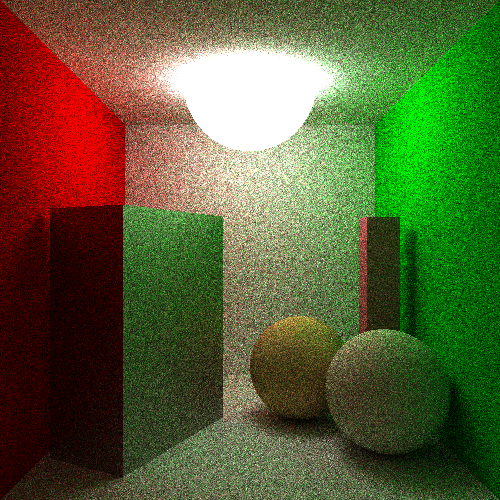
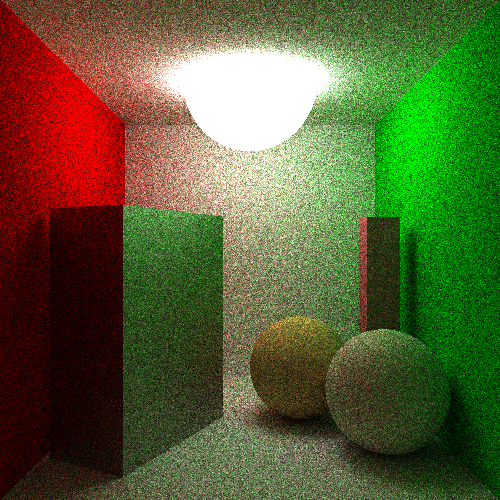
Still trying to debug why is so dark

diff --git a/src/Geometry.cpp b/src/Geometry.cpp
@@ -46,7 +46,7 @@ bool Sphere::CheckIntersection(const Ray& ray, const glm::vec3& center, ContactI
 	info.mContact = ray.mP0 + ray.mV * info.mTI;
 	info.mNormal = glm::normalize(info.mContact - center);
 
-	if (glm::dot(info.mNormal, ray.mV) > 0)
+	if (glm::dot(info.mNormal, ray.mV) >= 0)
 		info.mNormal = -info.mNormal;
 
 	return true;
@@ -118,7 +118,7 @@ bool Box::CheckIntersection(const Ray& ray, const glm::vec3& corner, ContactInfo
 		info.mNormal = planes[closestPlaneIndx].mNormal;
 	}
 
-	if (glm::dot(info.mNormal, ray.mV) > 0)
+	if (glm::dot(info.mNormal, ray.mV) >= 0)
 		info.mNormal = -info.mNormal;
 	
 	info.mContact = ray.mP0 + info.mTI * ray.mV;
@@ -132,12 +132,11 @@ bool Box::CheckIntersection(const Ray& ray, const glm::vec3& corner, ContactInfo
 bool Plane::CheckIntersection(const Ray& ray, const glm::vec3& point, glm::vec2& interval) const
 {
 	float raydot = glm::dot(ray.mV, mNormal);
-	float epsilon = std::numeric_limits<float>::epsilon();
-	if(raydot < epsilon && -epsilon < raydot)
-		return false;
+	//float epsilon = std::numeric_limits<float>::epsilon();
+	//if(raydot < epsilon && -epsilon < raydot)
+	//	return false;
 
-	//glm::vec3 cp = glm::normalize(ray.mP0 - point);
-	glm::vec3 cp = ray.mP0 - point;
+	glm::vec3 cp = glm::normalize(ray.mP0 - point);
 	float dot = glm::dot(cp, mNormal);
 	float time = -dot / raydot;
 
@@ -516,7 +515,7 @@ bool AABB::CheckIntersection(const Ray& ray, const glm::vec3& corner, ContactInf
 	info.mContact = ray.mP0 + info.mTI * ray.mV;
 
 
-	if (glm::dot(info.mNormal, ray.mV) > 0)
+	if (glm::dot(info.mNormal, ray.mV) >= 0)
 		info.mNormal = -info.mNormal;
 
 

diff --git a/src/Raytracer.cpp b/src/Raytracer.cpp
@@ -43,7 +43,7 @@ ContactInfo RayTracer::FindClosestObj(const Ray& ray, const Scene& scene)
         minInfo.mNormal = triangleWrapper.tri.mNormal;
         minInfo.mColor = triangleWrapper.owner && triangleWrapper.owner->mMaterial ? triangleWrapper.owner->mMaterial->mColor : Color::Black;
 
-		if (glm::dot(minInfo.mNormal, ray.mV) > 0)
+		if (glm::dot(minInfo.mNormal, ray.mV) >= 0)
 			minInfo.mNormal = -minInfo.mNormal;
 
         minInfo.mCollidedWith = triangleWrapper.owner ? triangleWrapper.owner : nullptr;
@@ -101,7 +101,7 @@ ContactInfo RayTracer::RayCast(const Ray& ray, const Scene& scene, int bounce){
 
         if (bounced.mV == glm::vec3(0.0F)) return result;
 		
-		if (glm::dot(bounced.mV, result.mNormal) < 0.0f)
+		if (glm::dot(bounced.mV, result.mNormal) <= 0.0f)
             result.mNormal = -result.mNormal;
 
 		//return result;
@@ -116,6 +116,8 @@ ContactInfo RayTracer::RayCast(const Ray& ray, const Scene& scene, int bounce){
 			result.mColor.ApplyAttenuation(ray.mAttenuation, result.mTI);
 
 		Color mixedColor = result.mColor * recursion.mColor;
+		//Color mixedColor = recursion.mColor;
+		//Color mixedColor = result.mColor;
         result = recursion;
         result.mColor = mixedColor;
 		//std::cout << "[RAYCAST]After Multiplying result color is:" << result.mColor.GetDebugString() << std::endl;

diff --git a/src/FrameBuffer.cpp b/src/FrameBuffer.cpp
@@ -110,10 +110,10 @@ void FrameBuffer::ConvertRaytracingPixelToRenderPixel(int x, int y, int divisor)
     if (x >= 0 && y >= 0 && x < width && y < height)
     {
         int index = (y * width + x);
-        glm::vec3 pixelColor = (255.99f * mRaytracingBuffer[index]) / static_cast<float>(divisor);
-        unsigned char red   = static_cast<unsigned char>(glm::clamp(pixelColor.r, 0.0f, 255.9f));
-        unsigned char green = static_cast<unsigned char>(glm::clamp(pixelColor.g, 0.0f, 255.9f));
-        unsigned char blue  = static_cast<unsigned char>(glm::clamp(pixelColor.b, 0.0f, 255.9f));
+        glm::vec3 pixelColor = 255.99f * mRaytracingBuffer[index] / static_cast<float>(divisor);
+        unsigned char red   = static_cast<unsigned char>(glm::clamp(pixelColor.r, 0.0f, 255.99f));
+        unsigned char green = static_cast<unsigned char>(glm::clamp(pixelColor.g, 0.0f, 255.99f));
+        unsigned char blue  = static_cast<unsigned char>(glm::clamp(pixelColor.b, 0.0f, 255.99f));
         glm::vec<3, unsigned char> renderColor(red, green, blue);
 
         SetColorRenderPixel(x, y, glm::vec<3, unsigned char>(red, green, blue));

diff --git a/src/Geometry.h b/src/Geometry.h
@@ -17,7 +17,6 @@ struct ContactInfo
     float mTI = -1.0F;
     const Object* mCollidedWith = nullptr;
     Color mColor = Color::Black;
-    //Color mColor = Color::White;
     bool IsValid();
     ContactInfo& operator=(const ContactInfo& rhs);
 };
